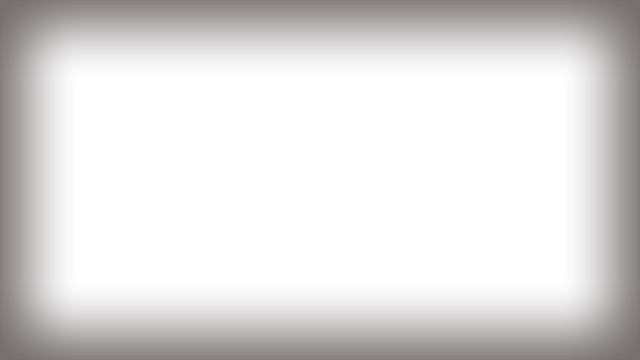
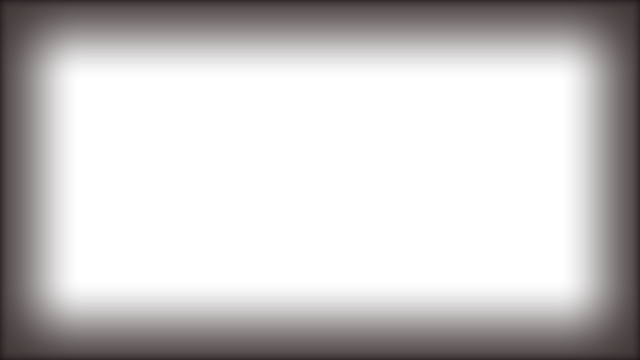
A little ui improvements

diff --git a/app/Providers/WindowServiceProvider.php b/app/Providers/WindowServiceProvider.php
@@ -4,13 +4,13 @@ declare(strict_types=1);
 
 namespace App\Providers;
 
-use Bic\UI\Factory as UIFactory;
 use Bic\UI\FactoryInterface;
 use Bic\UI\ManagerInterface;
 use Bic\UI\SDL\Factory;
 use Bic\UI\SDL\Window;
 use Bic\UI\Size;
 use Bic\UI\Window\CreateInfo;
+use Bic\UI\Window\Mode;
 use Bic\UI\Window\WindowInterface;
 use Illuminate\Container\Container;
 use Serafim\Bic\Application\ServiceProvider;
@@ -29,7 +29,6 @@ class WindowServiceProvider extends ServiceProvider
             return Factory::fromLibrary($instance->info->bin);
         });
 
-        $this->app->alias(Factory::class, UIFactory::class);
         $this->app->alias(Factory::class, FactoryInterface::class);
         $this->app->alias(Factory::class, ManagerInterface::class);
 
@@ -43,7 +42,8 @@ class WindowServiceProvider extends ServiceProvider
                 size: new Size(
                     width: $this->config('window.width', 800),
                     height: $this->config('window.height', 600),
-                )
+                ),
+                mode: $this->config('window.mode', Mode::DESKTOP_FULLSCREEN)
             ));
         });
 

diff --git a/app/Controller/GameController.php b/app/Controller/GameController.php
@@ -8,8 +8,10 @@ use App\Game;
 use App\View\FrameRate;
 use App\View\Noise;
 use App\View\Overlay;
+use Bic\UI\Keyboard\Key;
 use FFI\CData;
 use Serafim\Bic\Lifecycle\Annotation\OnEvent;
+use Serafim\Bic\Lifecycle\Annotation\OnKeyDown;
 use Serafim\Bic\Lifecycle\Annotation\OnMouseMove;
 use Serafim\Bic\Lifecycle\Annotation\OnMouseWheel;
 use Serafim\Bic\Lifecycle\Annotation\OnRender;
@@ -117,6 +119,12 @@ class GameController
     public function onDrop(): void
     {
         $this->drag = null;
+    }
+
+    #[OnKeyDown(key: Key::ESCAPE)]
+    public function onCloseApplication(): void
+    {
+        exit;
     }
 
     /**

diff --git a/config/window.php b/config/window.php
@@ -2,8 +2,6 @@
 
 declare(strict_types=1);
 
-use Serafim\SDL\Kernel\Video\WindowFlags;
-
 return [
 
     /*
@@ -39,4 +37,14 @@ return [
     */
 
     'height' => (int)env('WINDOW_HEIGHT', 1080),
+
+    /*
+    |--------------------------------------------------------------------------
+    | Window Mode
+    |--------------------------------------------------------------------------
+    |
+    | TODO
+    |
+    */
+    'mode' => \Bic\UI\Window\Mode::FULLSCREEN
 ];

diff --git a/engine/src/Lifecycle/Annotation/OnKeyDown.php b/engine/src/Lifecycle/Annotation/OnKeyDown.php
@@ -4,13 +4,14 @@ declare(strict_types=1);
 
 namespace Serafim\Bic\Lifecycle\Annotation;
 
+use Bic\UI\Keyboard\KeyInterface;
 use Serafim\SDL\Kernel\Event\Type;
 
 #[\Attribute(\Attribute::TARGET_METHOD)]
 class OnKeyDown extends OnEvent
 {
     public function __construct(
-        public readonly int $code,
+        public readonly KeyInterface $key,
     ) {
         parent::__construct(Type::SDL_KEYDOWN);
     }

diff --git a/engine/src/Lifecycle/Annotation/OnKeyUp.php b/engine/src/Lifecycle/Annotation/OnKeyUp.php
@@ -4,13 +4,14 @@ declare(strict_types=1);
 
 namespace Serafim\Bic\Lifecycle\Annotation;
 
+use Bic\UI\Keyboard\KeyInterface;
 use Serafim\SDL\Kernel\Event\Type;
 
 #[\Attribute(\Attribute::TARGET_METHOD)]
 class OnKeyUp extends OnEvent
 {
     public function __construct(
-        public readonly int $code,
+        public readonly KeyInterface $key,
     ) {
         parent::__construct(Type::SDL_KEYUP);
     }

diff --git a/engine/src/Lifecycle/Context.php b/engine/src/Lifecycle/Context.php
@@ -228,7 +228,7 @@ class Context
             case OnKeyDown::class:
             case OnKeyUp::class:
                 /** @var $attr OnKeyDown */
-                if ($attr->code === null || $attr->code === $event->key->keysym->scancode) {
+                if ($attr->key === null || $attr->key->getId() === $event->key->keysym->scancode) {
                     return $event->key;
                 }
 

diff --git a/app/View/Noise.php b/app/View/Noise.php
@@ -15,7 +15,7 @@ class Noise extends View
     /**
      * @var float
      */
-    public float $opacity = 70;
+    public float $opacity = 80;
 
     /**
      * @var array
@@ -64,7 +64,6 @@ class Noise extends View
         $current->alpha($this->opacity);
 
         $source = $transform->getSource();
-
 
         $current->destination->x = 0;
         do {
